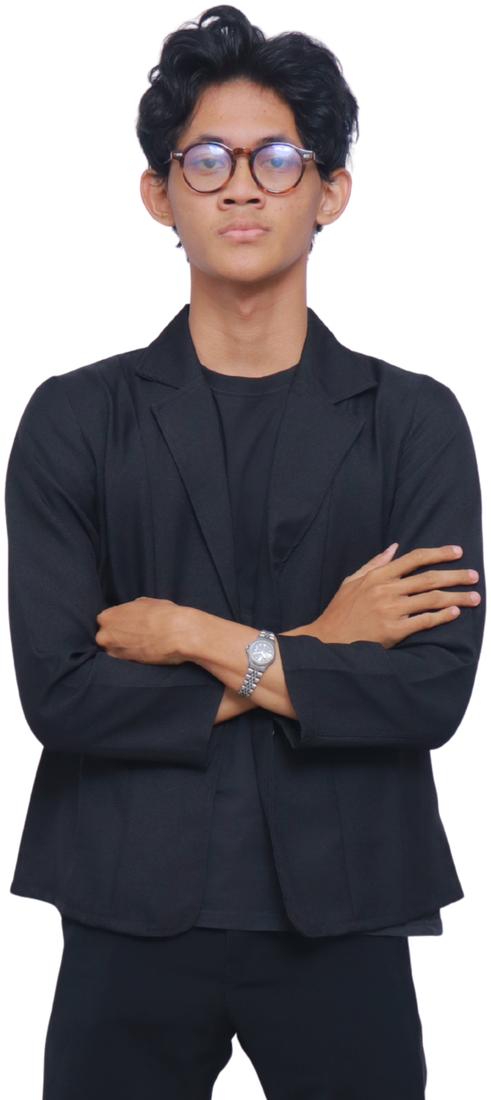
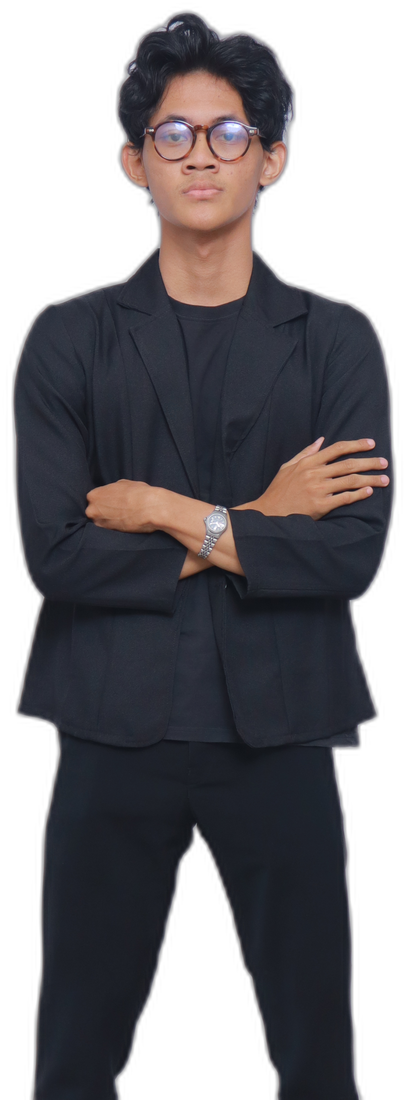
Hero: foto dipotong sampai bawah lutut (belahan kaki terlihat) dari sumber full-body

diff --git a/src/components/HeroPortrait.tsx b/src/components/HeroPortrait.tsx
@@ -28,10 +28,10 @@ export default function HeroPortrait({ className, alt }: Props) {
       <Image
         src="/images/foto.png"
         alt={alt}
-        width={491}
+        width={406}
         height={1100}
         priority
-        className="relative z-10 mx-auto h-auto w-[52%]"
+        className="relative z-10 mx-auto h-auto w-[46%]"
       />
       <SquiggleMark className="absolute left-[0%] top-[3%] z-0 h-[14px] w-[86px]" />
       <svg

diff --git a/scripts/proses-foto.py b/scripts/proses-foto.py
@@ -16,7 +16,7 @@ from rembg import new_session, remove
 
 SOURCE = Path(sys.argv[1]) if len(sys.argv) > 1 else Path.home() / "Downloads" / "IMG_4890.JPG"
 TARGET = Path(sys.argv[2]) if len(sys.argv) > 2 else Path(__file__).parent.parent / "public" / "images" / "foto.png"
-CROP_FRACTION = 0.55  # setengah badan: kepala sampai bawah jaket
+CROP_FRACTION = float(sys.argv[3]) if len(sys.argv) > 3 else 0.55  # 0.55=setengah badan; 0.74=sampai bawah lutut
 MAX_HEIGHT = 1100
 PAD = 8
 
